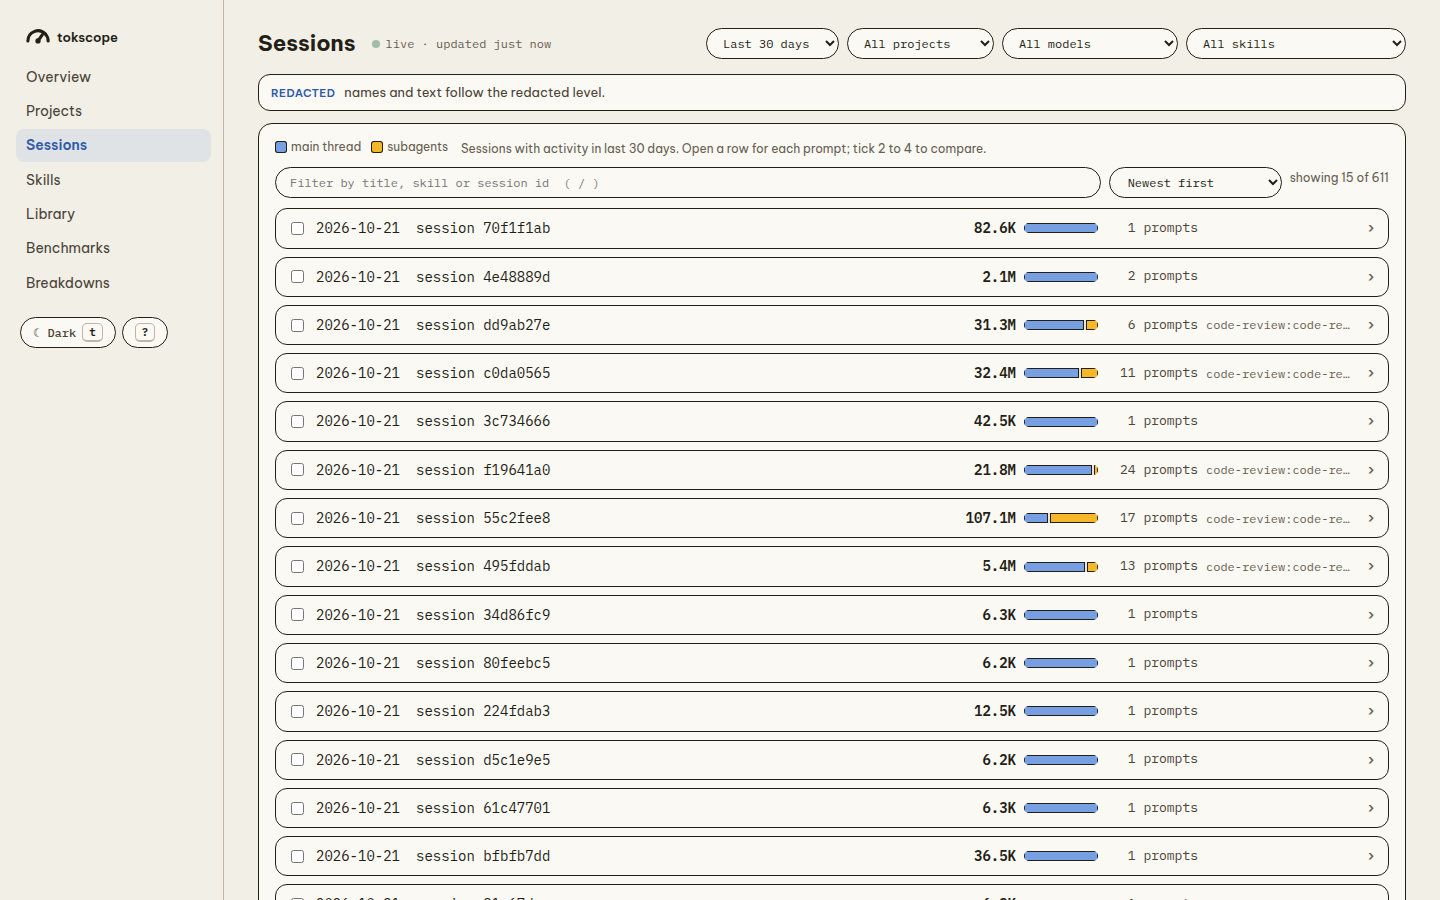
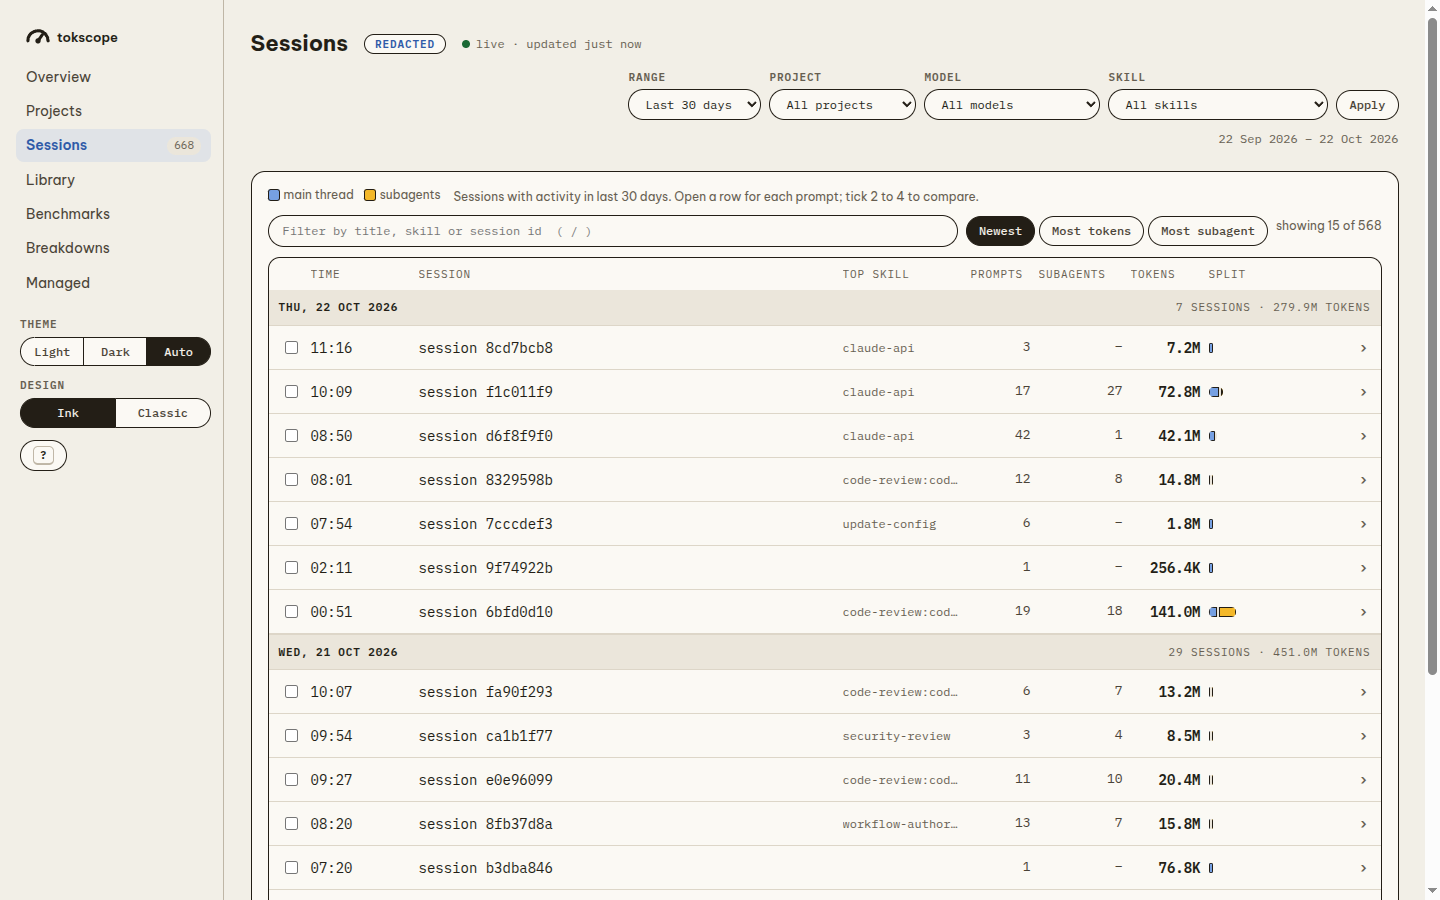
README: new screenshots of the current dashboard and report
Overview, Sessions and Breakdowns from `tokscope serve --privacy redacted`, the
report from `tokscope report --privacy redacted`, and Managed with demo ant data.

diff --git a/STATUS.md b/STATUS.md
@@ -18,7 +18,7 @@ Try Pause / Unpause once on a real deployment; then close #23 after a look at th
 - GitHub Actions jobs do not start: account payment or spending limit (see Settings > Billing).
 
 ## Recent
-- 2026-10-22: docs split (PR open): CLAUDE.md cut to the rules, PRODUCT.md holds the features, README.md only install, run, the desktop app and how to build the .deb and install it on another machine; released v0.2.0 (the #23 dashboard redesign): version bump and changelog entry (PR #40); tag v0.2.0 and GitHub release follow the merge; #63 Managed page (read only, PR #64): `tokscope/managed.py` reads deployments, sessions and agents through `ant`, full level only; review findings 1-4 fixed (unknown data shape shows as text, note wording, refresh test checks the fresh read); research in `docs/research-ant-managed-agents.md`; #65 Pause / Unpause buttons on Managed deployments (full level, asks first, button inside the status cell so the table still fits at 1440), PR #66 reviewed (5 reviewers + security, no finding scored 80) and all 5 sub-threshold findings fixed (write that landed despite an ant error counts as done, fullmatch id, docstring, a long pause reason wraps, OSError from ant); checked billing via ant with org:admin: no balance command, spend limits not supported for this org type, cost report needs a read:analytics API key (owner: not needed); merged #64 and #66 into main, then `desktop-app` (#59, #61, #62) into main; checked the desktop app on this machine: service restarted on the new code, Electron window shows the dashboard from 127.0.0.1:8770, the service could not find `ant` (`~/.local/bin` is not on the systemd user PATH), fixed by looking in user bin folders too (PR #68, merged; service restarted on main); clicking an agent on Managed opens its configuration (model, prompt, toolsets and permissions, MCP servers, skills), read only (#69, PR #70: review found nothing blocking, the 6 small points fixed, merged; service restarted).
+- 2026-10-22: docs split (PR #71 open): CLAUDE.md cut to the rules, PRODUCT.md holds the features, README.md only install, run, the desktop app and how to build the .deb and install it on another machine, new redacted screenshots (Overview, Sessions, Breakdowns, Managed with demo data, report); released v0.2.0 (the #23 dashboard redesign): version bump and changelog entry (PR #40); tag v0.2.0 and GitHub release follow the merge; #63 Managed page (read only, PR #64): `tokscope/managed.py` reads deployments, sessions and agents through `ant`, full level only; review findings 1-4 fixed (unknown data shape shows as text, note wording, refresh test checks the fresh read); research in `docs/research-ant-managed-agents.md`; #65 Pause / Unpause buttons on Managed deployments (full level, asks first, button inside the status cell so the table still fits at 1440), PR #66 reviewed (5 reviewers + security, no finding scored 80) and all 5 sub-threshold findings fixed (write that landed despite an ant error counts as done, fullmatch id, docstring, a long pause reason wraps, OSError from ant); checked billing via ant with org:admin: no balance command, spend limits not supported for this org type, cost report needs a read:analytics API key (owner: not needed); merged #64 and #66 into main, then `desktop-app` (#59, #61, #62) into main; checked the desktop app on this machine: service restarted on the new code, Electron window shows the dashboard from 127.0.0.1:8770, the service could not find `ant` (`~/.local/bin` is not on the systemd user PATH), fixed by looking in user bin folders too (PR #68, merged; service restarted on main); clicking an agent on Managed opens its configuration (model, prompt, toolsets and permissions, MCP servers, skills), read only (#69, PR #70: review found nothing blocking, the 6 small points fixed, merged; service restarted).
 - 2026-10-22: checked the subagents; all three (2 factory-implementer, 1 general-purpose) had already completed, nothing to close; merged the whole #23 stack into main (#25 to #29, #31, #33, #32; #31 and #34 had to land again as #36 and #37 because their stack base had already merged); main passes 271 tests.
 - 2026-10-22: #23 reviews done and findings fixed; skin-tokens token test made strict (no longer skips tokens neither skin defines); merging the stack.
 - 2026-10-22: #23 step 0 part 2: skins are tokens plus a look block (Ink 400 to 69 rules, Classic 385 to 87; value-only rules written once in layout.py); screenshots and computed styles identical to the base (PR open, on top of the stack).

diff --git a/README.md b/README.md
@@ -6,7 +6,30 @@ report and in a live local dashboard. Nothing leaves your machine.
 
 What each part does: [PRODUCT.md](PRODUCT.md).
 
+## Screenshots
+
+The usage screenshots come from `tokscope serve --privacy redacted` and `tokscope report --privacy redacted`, so they
+show no prompts, titles, paths or project names. The Managed screenshot uses demo data.
+
+**Overview**: today against a typical day, the totals with their change, and the biggest movers.
+
 ![The dashboard Overview page](docs/screenshots/dashboard-overview.png)
+
+**Sessions**: each session by day, split between the main thread and subagents. Open a row for each prompt; tick 2 to 4 rows to compare.
+
+![The dashboard Sessions page](docs/screenshots/dashboard-sessions.png)
+
+**Breakdowns**: tokens by MCP server, tool, phase, owner, skill and subagent type, each with its finding.
+
+![The dashboard Breakdowns page](docs/screenshots/dashboard-breakdowns.png)
+
+**Managed**: Claude Managed Agents deployments, sessions and agents, with Pause / Unpause (needs the `ant` CLI).
+
+![The dashboard Managed page](docs/screenshots/dashboard-managed.png)
+
+**Report** (`tokscope open`): one HTML file with the last 7 days, the totals, the sessions and the breakdowns.
+
+![The HTML report](docs/screenshots/report-overview.png)
 
 ## Requirements
 
